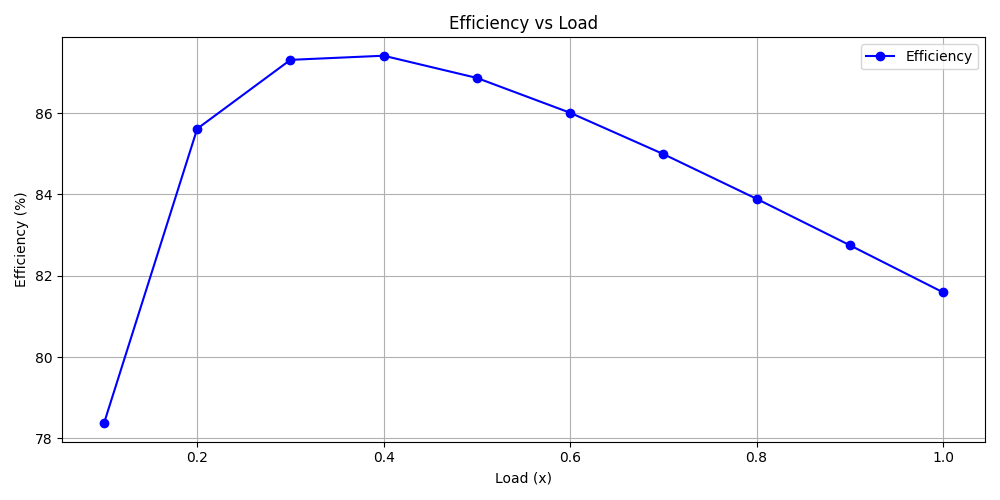
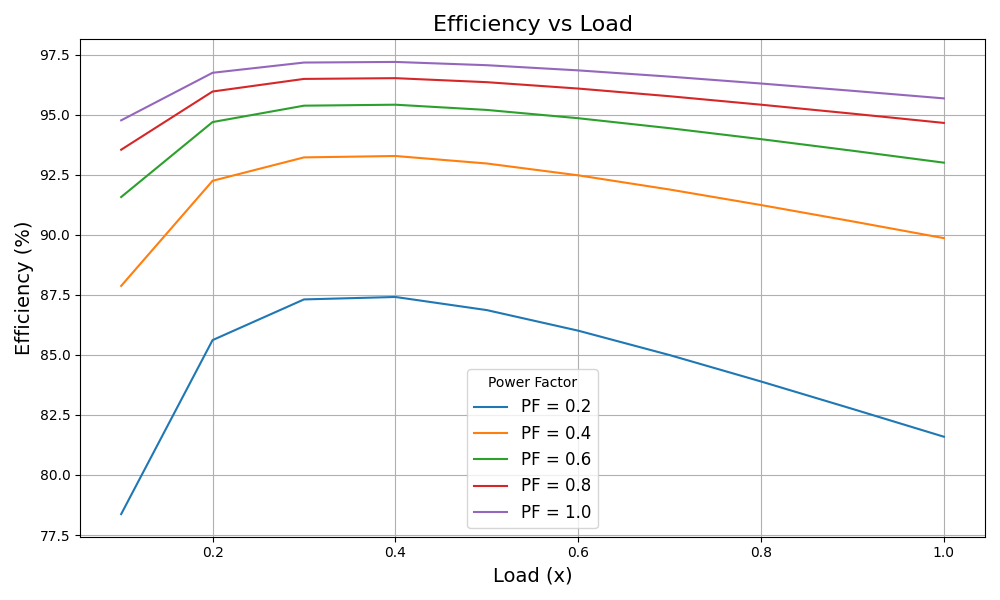
changed file name

diff --git a/effiency.py b/effiency.py
@@ -47,22 +47,46 @@ for x in load_values:
 df = pd.DataFrame(results)
 
 # Plot efficiency vs power output for each power factor
-plt.figure(figsize=(10, 6))
-for pf in power_factors:
-    subset = df[df["Power Factor (pf)"] == pf]
-    plt.plot(subset["Power Output (Po)"], subset["Efficiency (%)"], label=f"PF = {pf}")
+def plot_efficiency_vs_power_output(df, power_factors):
+    plt.figure(figsize=(10, 6))
+    for pf in power_factors:
+        subset = df[df["Power Factor (pf)"] == pf]
+        plt.plot(subset["Power Output (Po)"], subset["Efficiency (%)"], label=f"PF = {pf}")
 
-# Add labels, legend, and title
-plt.title("Efficiency vs Power Output", fontsize=16)
-plt.xlabel("Power Output (Po)", fontsize=14)
-plt.ylabel("Efficiency (%)", fontsize=14)
-plt.legend(title="Power Factor", fontsize=12)
-plt.grid(True)
-plt.tight_layout()
+    # Add labels, legend, and title
+    plt.title("Efficiency vs Power Output", fontsize=16)
+    plt.xlabel("Power Output (Po)", fontsize=14)
+    plt.ylabel("Efficiency (%)", fontsize=14)
+    plt.legend(title="Power Factor", fontsize=12)
+    plt.grid(True)
+    plt.tight_layout()
 
-# Show the plot
-plt.show()
+    # Show the plot
+    plt.show()
 
-# Optionally save the plot as an image
-plt.savefig("efficiency_vs_power_output.png")
-print("\nPlot saved as 'efficiency_vs_power_output.png'")
+    # Optionally save the plot as an image
+    plt.savefig("efficiency_vs_power_output.png")
+    print("\nPlot saved as 'efficiency_vs_power_output.png'")
+
+def plot_efficiency_vs_load(df, power_factors):
+    plt.figure(figsize=(10, 6))
+    for pf in power_factors:
+        subset = df[df["Power Factor (pf)"] == pf]
+        plt.plot(subset["Load (x)"], subset["Efficiency (%)"], label=f"PF = {pf}")
+
+    # Add labels, legend, and title
+    plt.title("Efficiency vs Load", fontsize=16)
+    plt.xlabel("Load (x)", fontsize=14)
+    plt.ylabel("Efficiency (%)", fontsize=14)
+    plt.legend(title="Power Factor", fontsize=12)
+    plt.grid(True)
+    plt.tight_layout()
+
+    # Show the plot
+    plt.show()
+
+    # Optionally save the plot as an image
+    plt.savefig("efficiency_vs_load.png")
+    print("\nPlot saved as 'efficiency_vs_load.png'")
+plot_efficiency_vs_power_output(df, power_factors)
+plot_efficiency_vs_load(df, power_factors)
